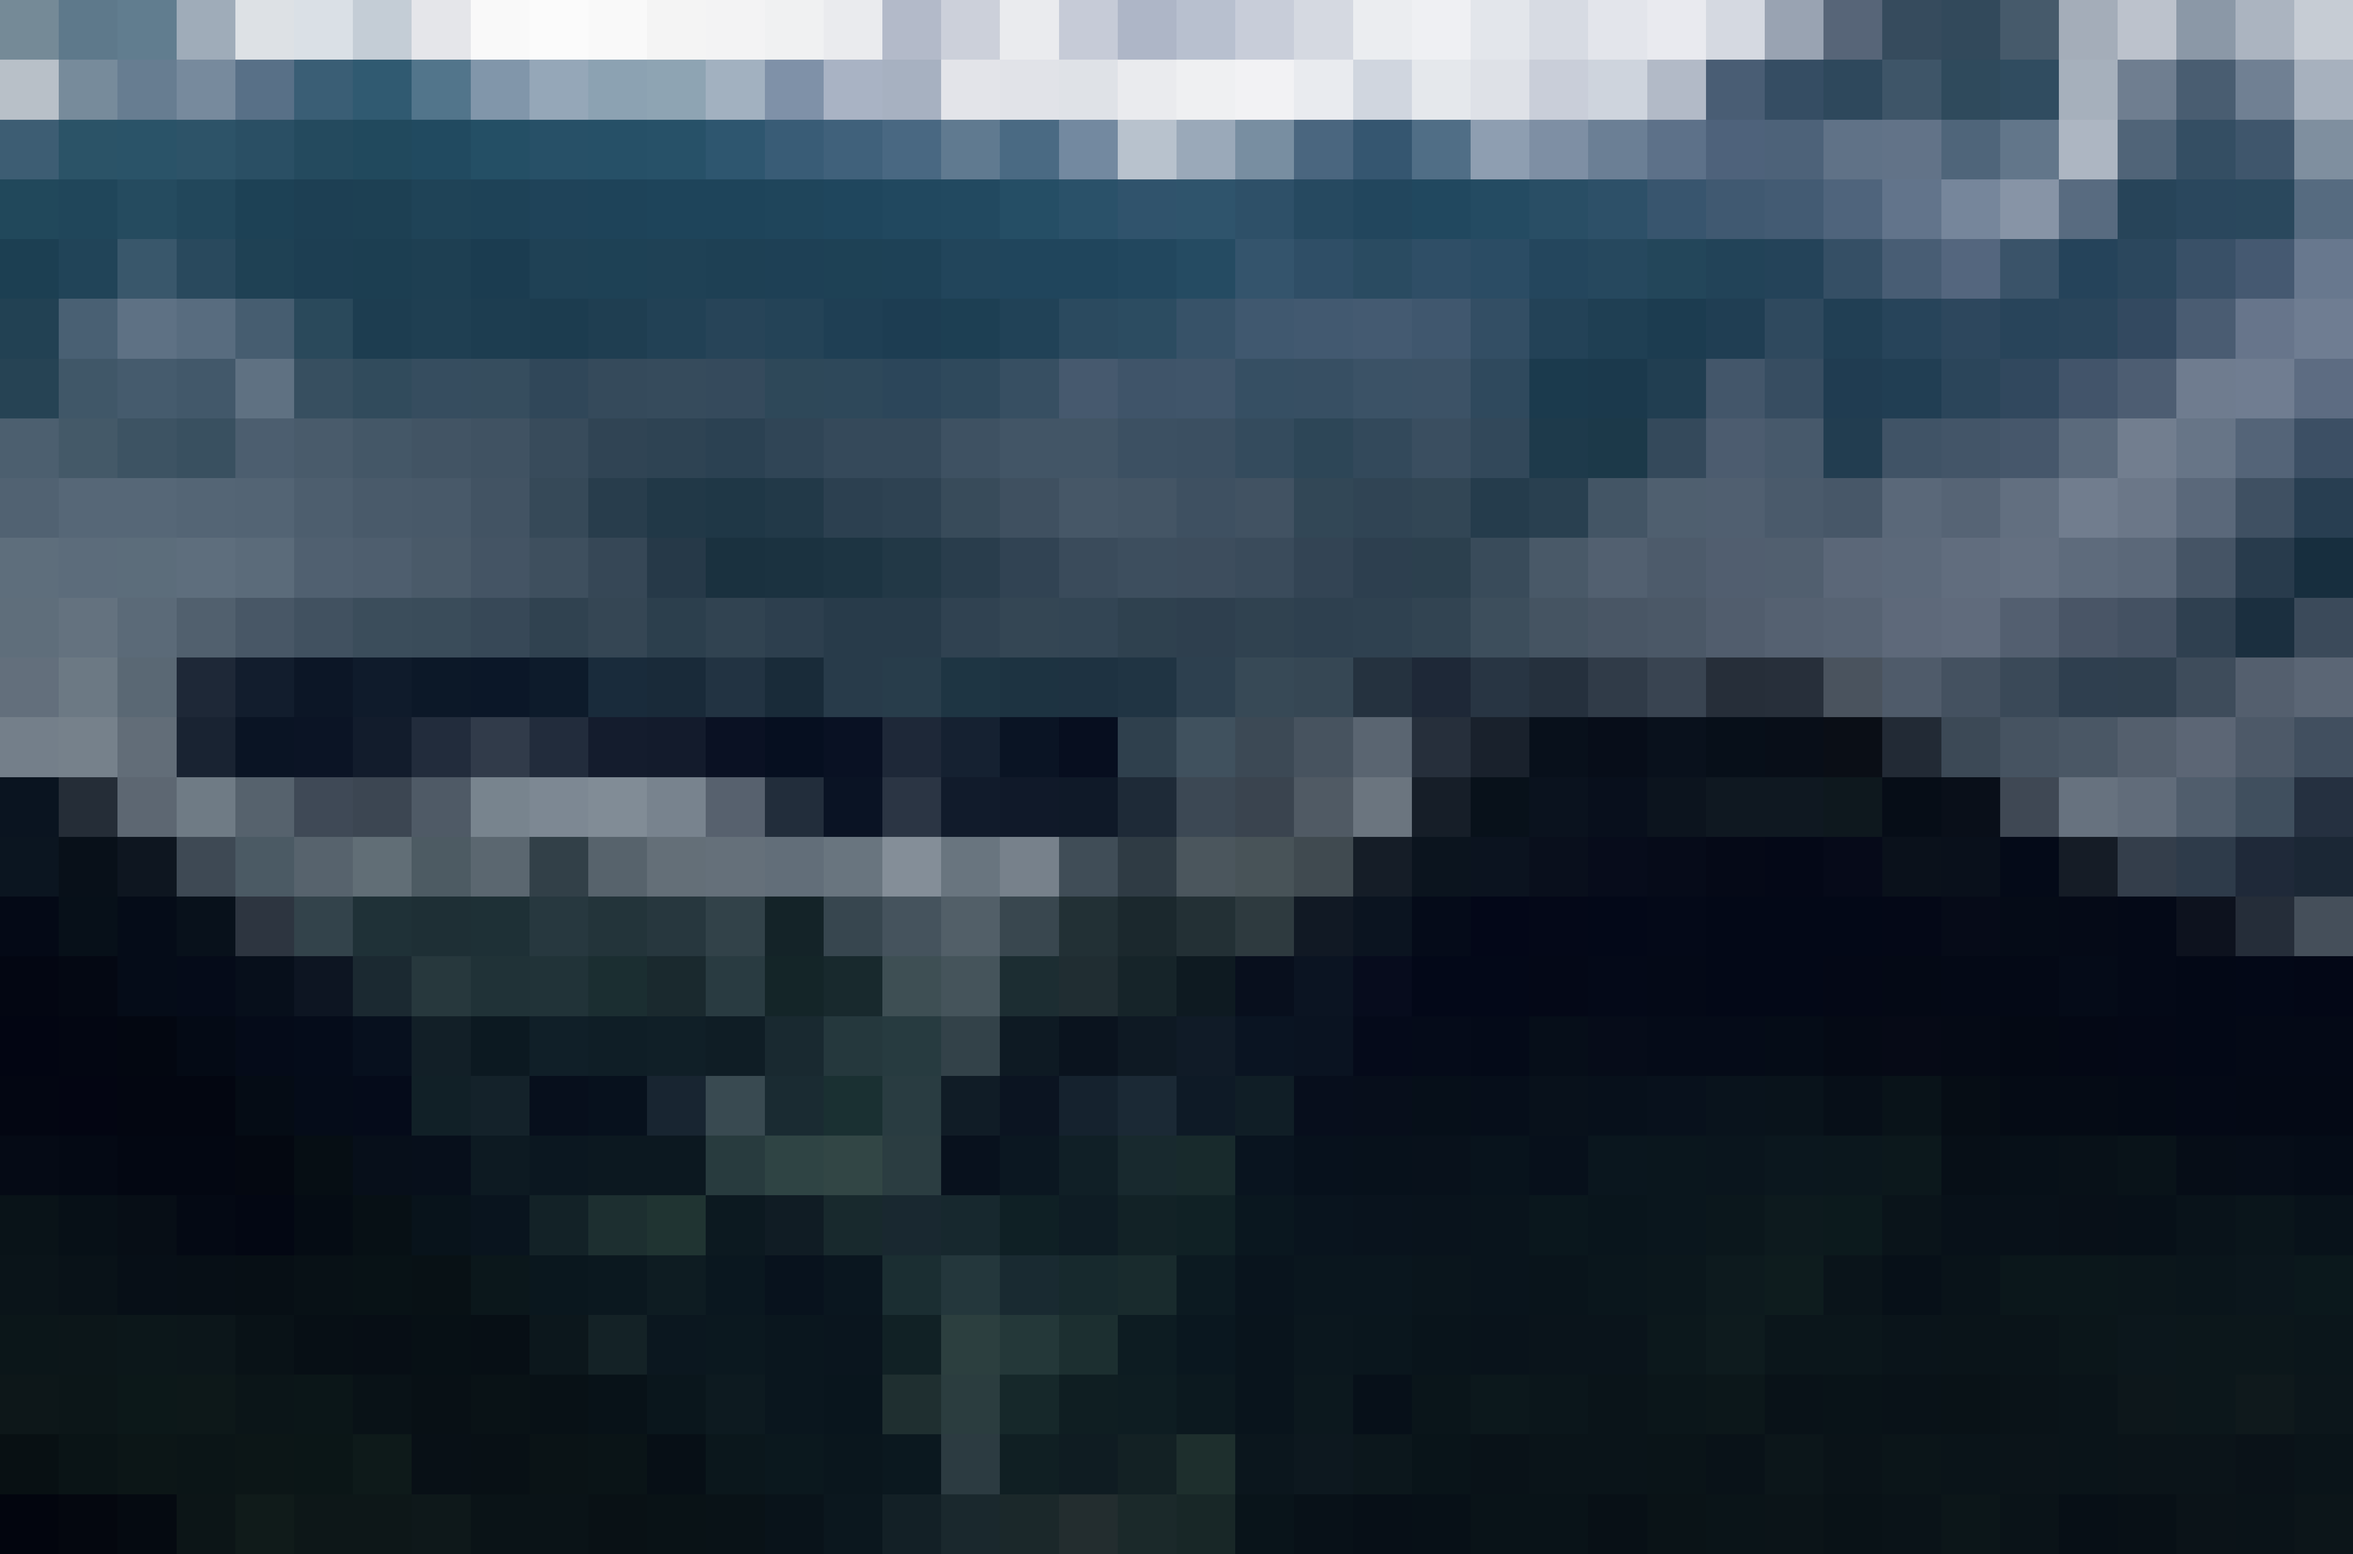
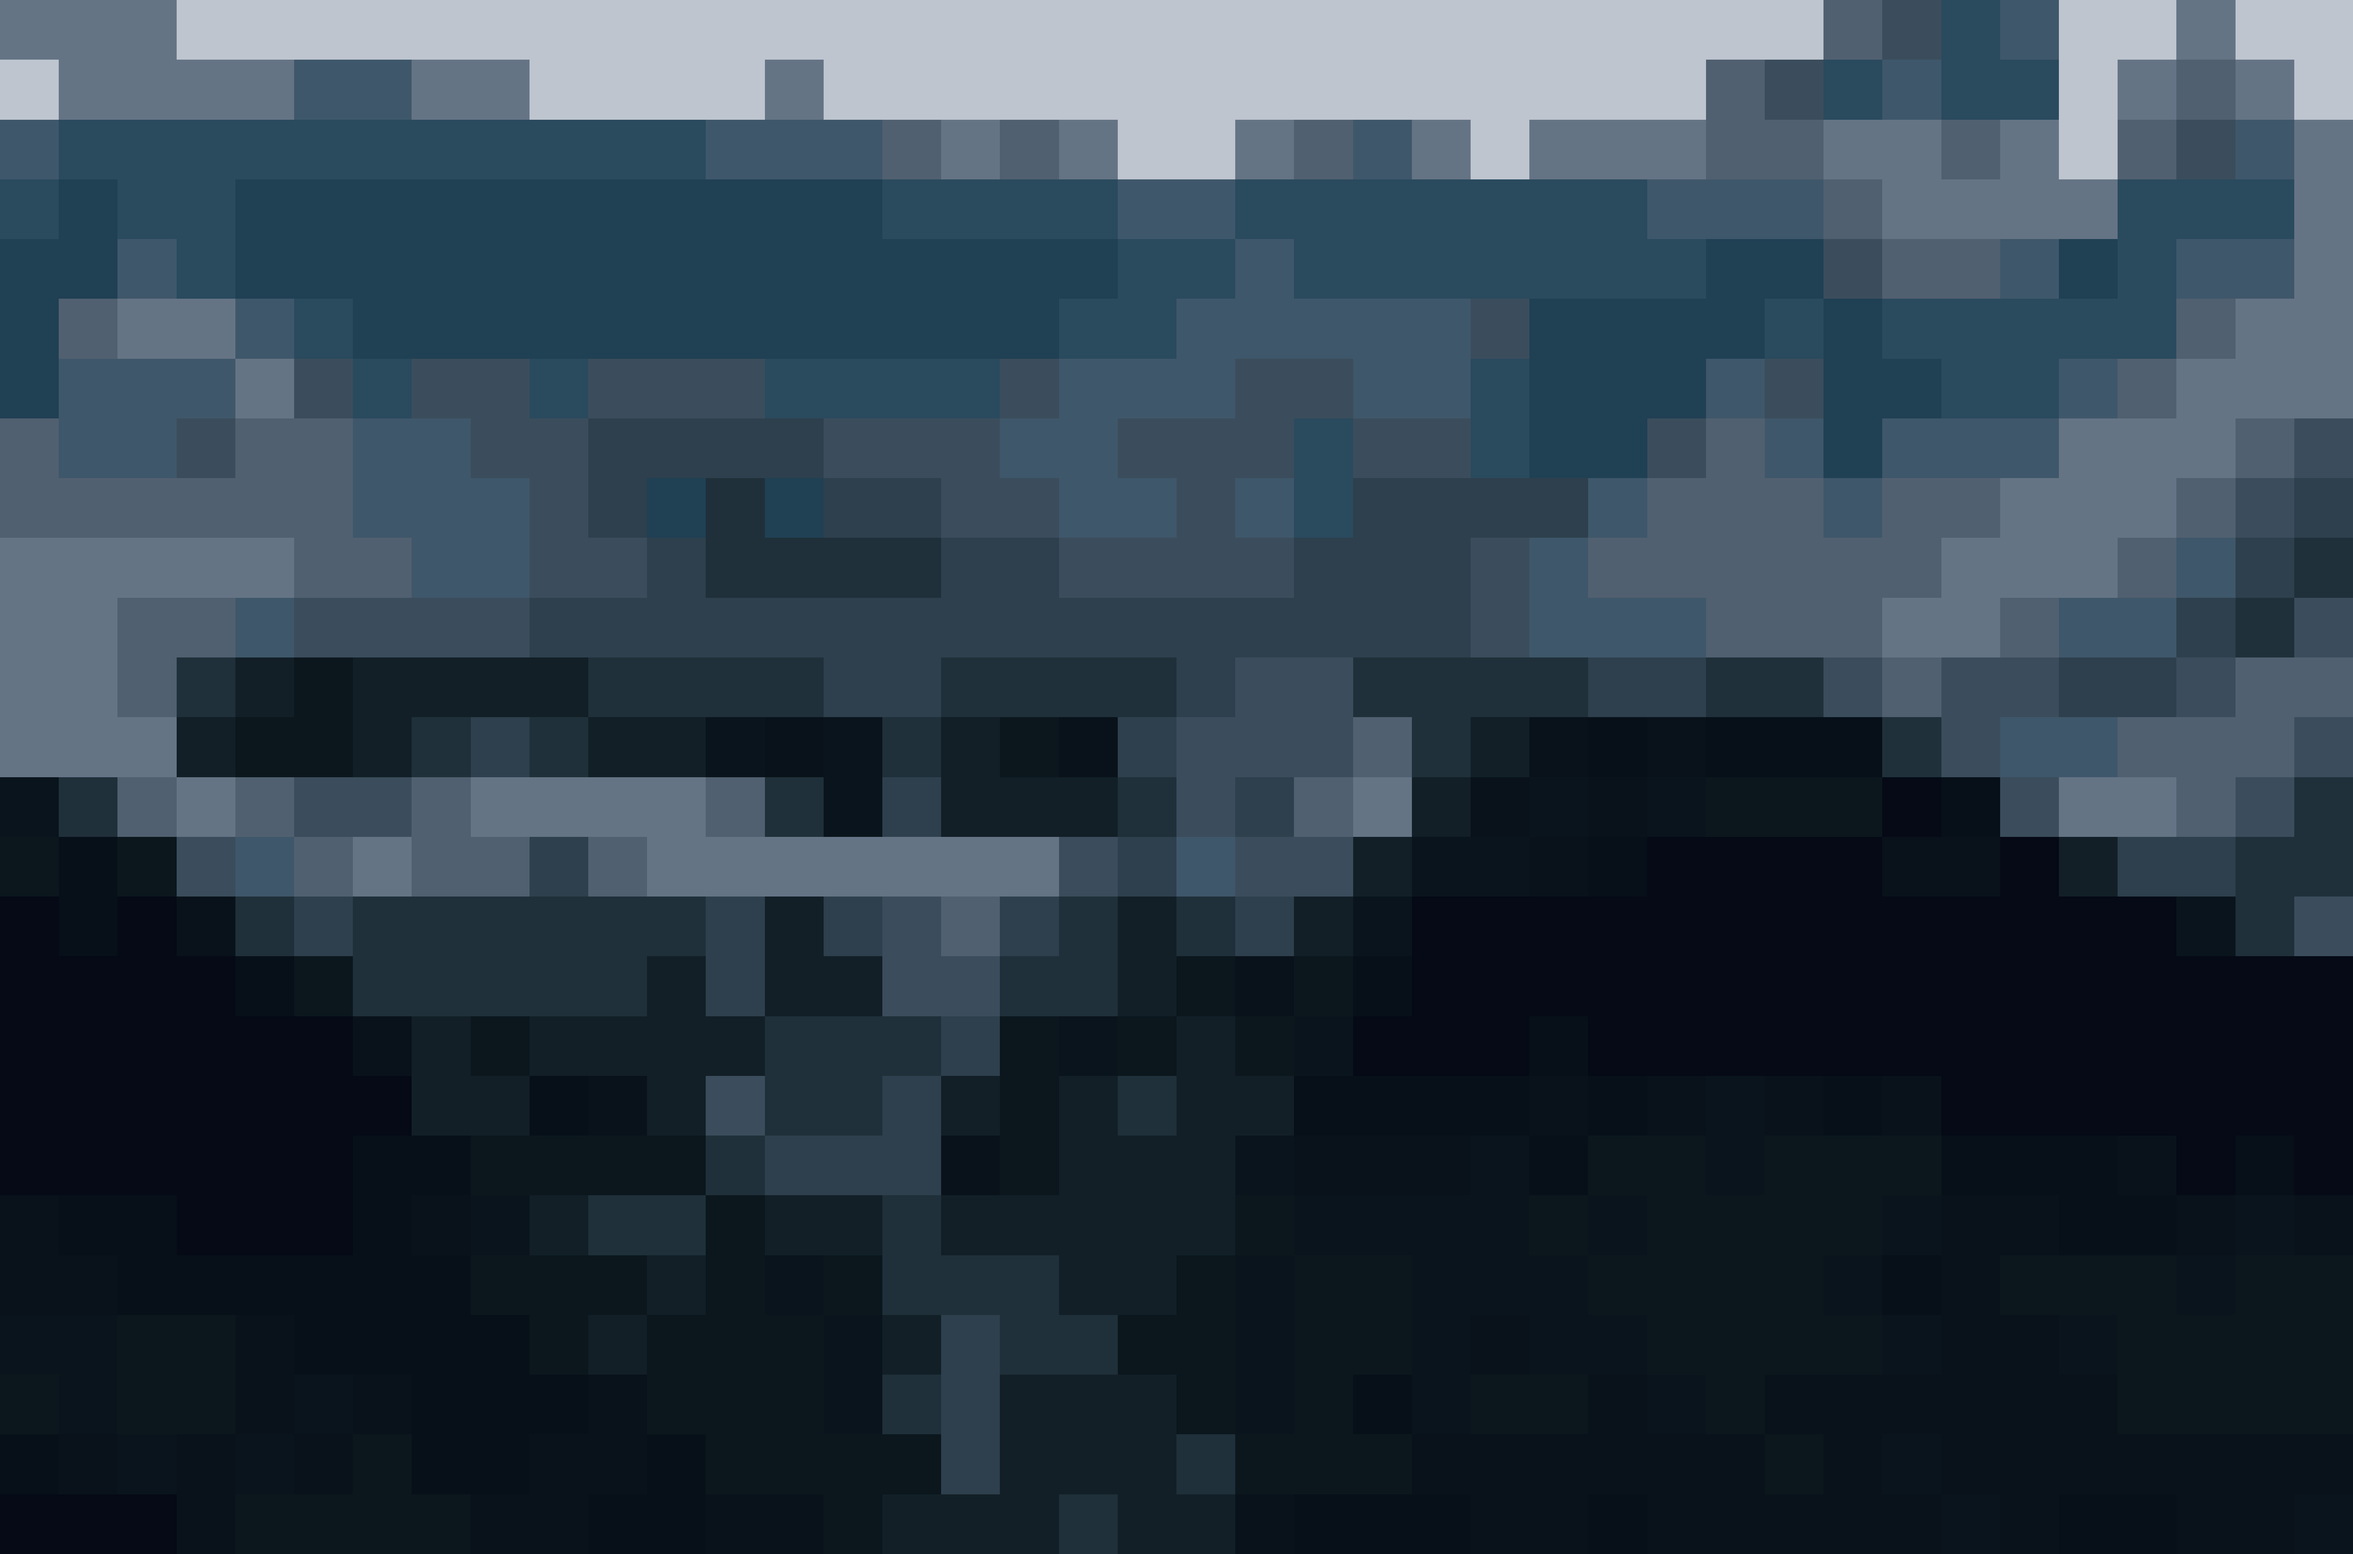
Réduction du nombre de couleurs

diff --git a/mosaique.py b/mosaique.py
@@ -1,27 +1,23 @@
-# 1. Importer l'outil d'images
-
 from PIL import Image
-
-# 2. Ouvrir photo.jpg et récupérer largeur et hauteur
 
 image = Image.open("photo.jpg")
 largeur, hauteur = image.size
 
-# 3. Choisir le nombre de blocs et calculer la hauteur en blocs
-
 blocs = 40
+couleurs = 15
 if blocs <1 or blocs > largeur:
     print("valeur non conforme (extrêmes), blocs doit être entre 1 et", largeur)
     exit()
+if couleurs<2 or couleurs>256 :
+    print("Range de couleurs non conforme, elle doit être entre 2 et 256")
+    exit()
+
 petite_largeur = blocs
 petite_hauteur = round(hauteur * blocs / largeur)
 
-# 4. Réduire en faisant la moyenne, puis réagrandir sans lisser
-
 petite = image.resize((petite_largeur, petite_hauteur), Image.Resampling.BOX)
+petite = petite.quantize(colors=couleurs)
 mosaique = petite.resize((largeur, hauteur), Image.Resampling.NEAREST)
 
-# 5. Enregistrer et afficher un message
-
 mosaique.save("mosaique.png")
-print("Mosaïque enregistrée :", petite_largeur, "x", petite_hauteur, "blocs")
+print("Mosaïque enregistrée :", petite_largeur, "x", petite_hauteur, "blocs et", couleurs, "couleurs")
